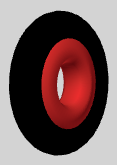
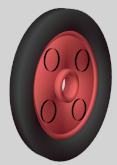
rad blockiert keine Position

diff --git a/PlastiCAD/MainWindow.xaml.cs b/PlastiCAD/MainWindow.xaml.cs
@@ -182,30 +182,56 @@ namespace PlastiCAD
                         placed.Transform.Position.Z - z)
                     < tolerance;
 
-                if (!sameX || !sameY || !sameZ)
+                if (!sameX ||
+                    !sameY ||
+                    !sameZ)
+                {
                     continue;
+                }
+
 
                 bool movingIsOverlayPart =
                     movingPart is Wheel ||
+                    movingPart is BigWheel ||
                     movingPart is EndCap ||
                     movingPart is Plate;
 
                 bool existingIsOverlayPart =
                     placed.Part is Wheel ||
+                    placed.Part is BigWheel ||
                     placed.Part is EndCap ||
                     placed.Part is Plate;
 
-                // Zusatzteil und Grundbauteil dürfen
-                // dieselbe Rasterposition verwenden.
-                if (movingIsOverlayPart != existingIsOverlayPart)
+
+                // ------------------------------------------------------------
+                // Zusatzteil + Grundbauteil
+                // dürfen dieselbe Rasterposition benutzen.
+                // ------------------------------------------------------------
+
+                if (movingIsOverlayPart !=
+                    existingIsOverlayPart)
+                {
                     continue;
+                }
 
-                // Zwei Grundbauteile dürfen dieselbe
-                // Rasterposition nicht belegen.
+
+                // ------------------------------------------------------------
+                // Zwei Grundbauteile dürfen dieselbe Position
+                // NICHT belegen.
+                // ------------------------------------------------------------
+
                 if (!movingIsOverlayPart)
+                {
                     return true;
+                }
 
-                // Zusatzteile blockieren einander zunächst ebenfalls nicht.
+
+                // ------------------------------------------------------------
+                // Zusatzteile blockieren sich momentan nicht gegenseitig.
+                //
+                // Also z.B. Rad auf Grundteil / Endkappe usw.
+                // ------------------------------------------------------------
+
                 continue;
             }
 
